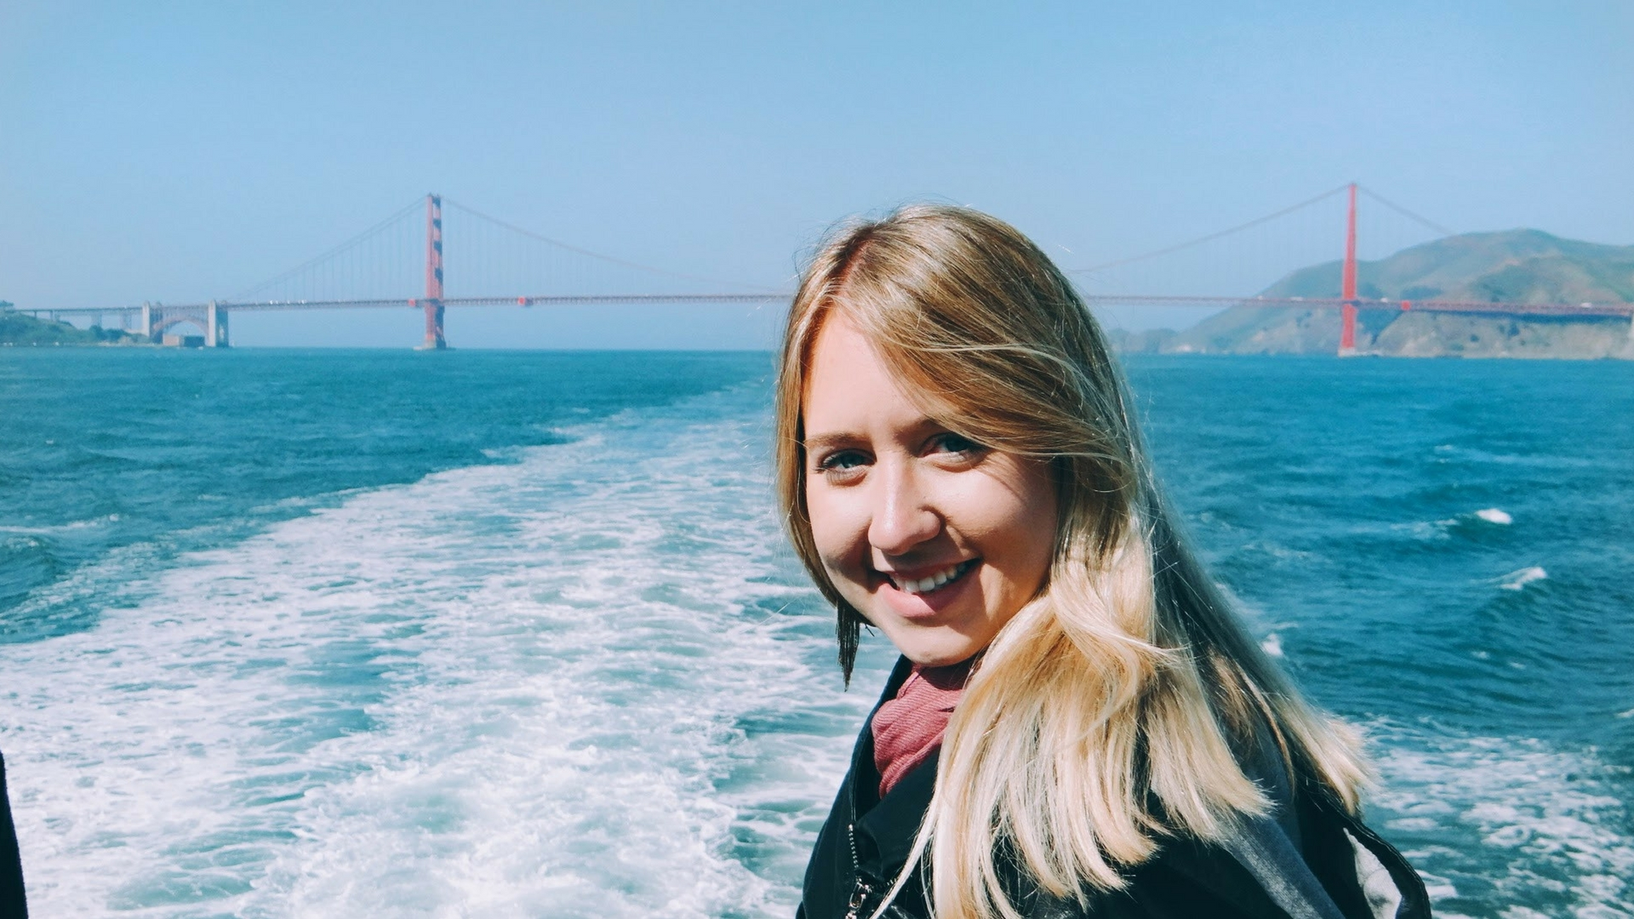
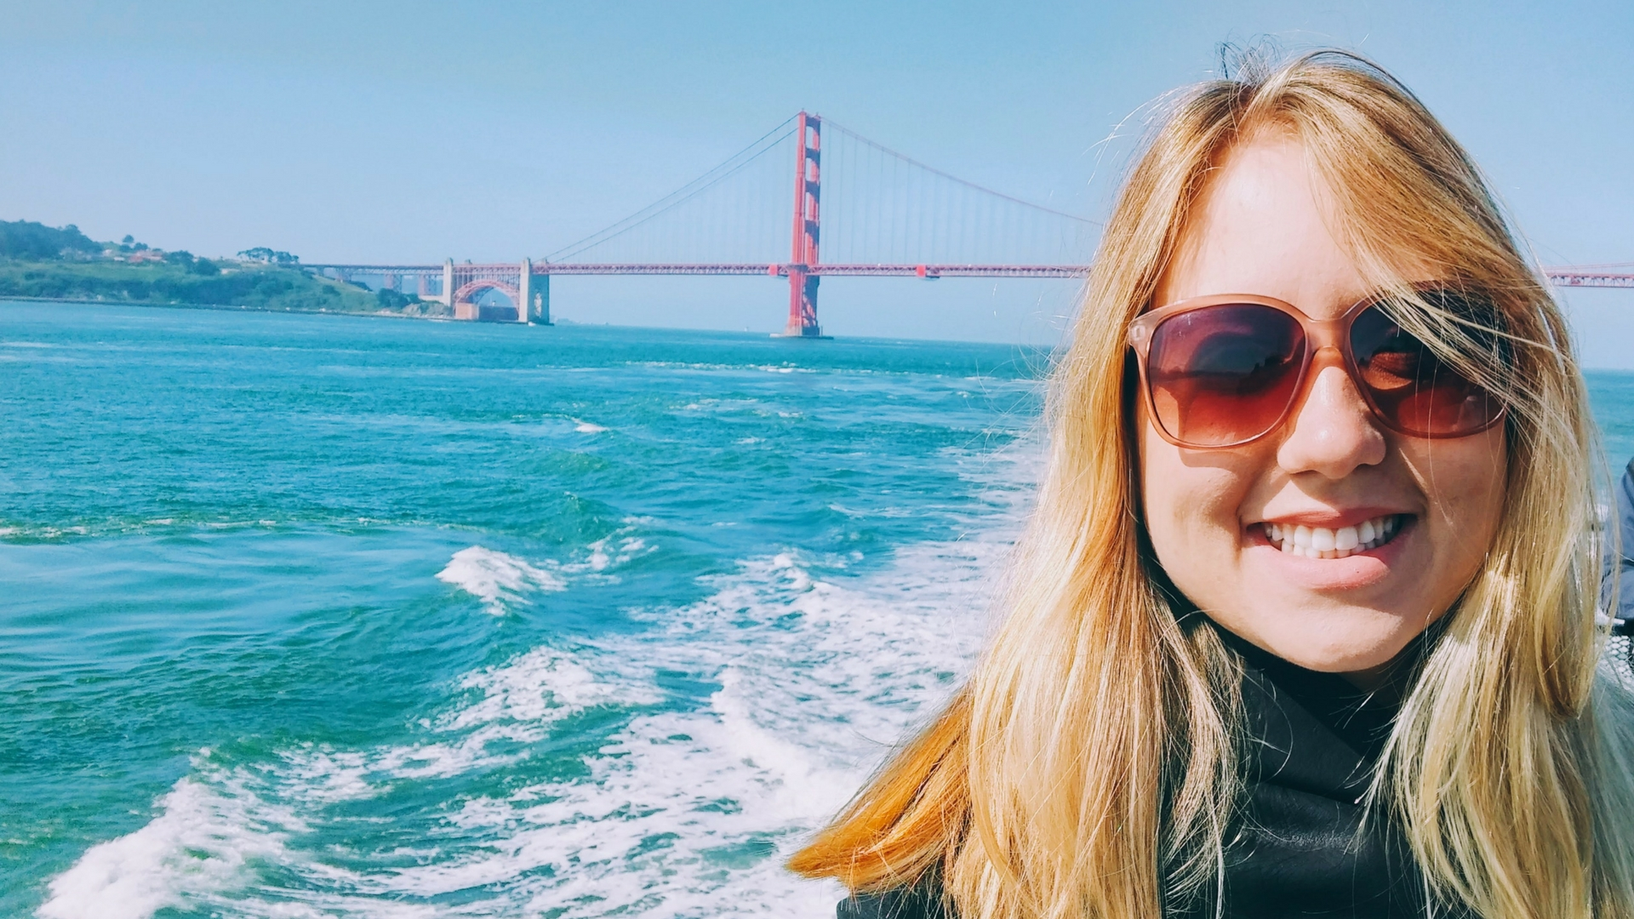
Postando são francisco

diff --git a/layouts/shortcodes/subscribe.html b/layouts/shortcodes/subscribe.html
@@ -1,9 +1,9 @@
   <div class="pure-g subscribe ">
     <div class="pure-u-1 pure-u-1 subscribe-inline text-center">
-      <form class="pure-form" action-xhr="//debacontudo.us15.list-manage.com/subscribe/post?u=b8837e3b70f25c1a6c0fa05e7&amp;id=c9ca835a56" method="post" id="mc-embedded-subscribe-form" name="mc-embedded-subscribe-form" target="_top" novalidate>
+      <form class="pure-form" action-xhr="//debacontudo.us15.list-manage.com/subscribe/post?u=b8837e3b70f25c1a6c0fa05e7&amp;id=c9ca835a56" method="post" id="mc-embedded-subscribe-form" name="mc-embedded-subscribe-form" target="_blank" novalidate>
 <fieldset>
-  <input type="email" placeholder="Informe seu e-mail e receba novidades" value="" name="email" class=" pure-input-2-3 required email" >
-  <button type="submit" class="submit"  name="subscribe" >OK</button>
+  <input type="email" placeholder="Informe seu e-mail e receba novidades" value="" name="EMAIL" class=" pure-input-2-3 required email" >
+  <button type="submit"  name="subscribe" >OK</button>
 </fieldset>
         <div submit-success>
           <template type="amp-mustache">
@@ -21,3 +21,6 @@
     <!-- .col-## -->
   </div>
   <!-- .container -->
+  <!-- Begin MailChimp Signup Form -->
+
+  <!-- Begin MailChimp Signup Form -->

diff --git a/layouts/shortcodes/quote-her.html b/layouts/shortcodes/quote-her.html
@@ -1,5 +1,3 @@
 <blockquote class="her our">
-  <p>
     {{ .Get 0 }}
-  </p>
 </blockquote>

diff --git a/layouts/shortcodes/quote-him.html b/layouts/shortcodes/quote-him.html
@@ -1,5 +1,3 @@
 <blockquote class="him our">
-  <p>
     {{ .Get 0 }}
-  </p>
 </blockquote>

diff --git a/content/viagem/o-que-fazer-sao-francisco.md b/content/viagem/o-que-fazer-sao-francisco.md
@@ -4,9 +4,9 @@ author:
 banner: /img/2017/05/pontos-interesse-sao-francisco-banner.jpg
 categories:
 - viagem
-date: 2017-05-30T18:00:47-02:00
-description: Acompanhe o nosso roteiro de road trip pela Highway 1. Vamos falar do Big Sur, o aquário de Monterey, Google, Facebook e muito mais.
-draft: true
+date: 2017-05-31T00:54:47-02:00
+description: Conheça 11 experiências incríveis da cidade de São Francisco que vão te fazer querer arrumar as malas e viajar hoje mesmo. Os principais pontos de interesse e atrações.
+draft: false
 images:
 - /img/2017/05/pontos-interesse-sao-francisco-banner.jpg
 lightbox: true
@@ -17,120 +17,182 @@ tags:
 - viagens
 - california
 - usa
-thumbnail: /img/2017/04/highway-1-thumb.jpg
-title: '10 experiências que fazem de São Francisco um lugar maravilhoso para se conhecer'
+- saofrancisco
+thumbnail: /img/2017/05/pontos-interesse-sao-francisco-thumb.jpg
+title: '11 experiências que fazem de São Francisco um lugar maravilhoso para se conhecer'
 totop: true
 ---
 
-São Francisco é uma cidade cheia de coisas super interessantes e divertidas para se fazer. Somos apaixonados pela cidade, e óbvio adoramos falar dela. Para facilitar que você saíba quais os principais pontos de interesse em São Francisco e passeios que você não pode perder, fizemos essa lista. Aqui você vai encontrar 10 experiências que fazem de São Francisco um lugar maravilhoso para se conhecer.
+**São Francisco** é uma cidade cheia de **coisas super interessantes** e divertidas para se fazer. Somos apaixonados pela cidade e adoramos falar dela. Para ajudar as pessoas que estão planejando uma viagem ou que pretendem um dia conhecer São Francisco, fizemos essa lista com os **principais pontos de interesse** e passeios que você não pode perder. Aqui você vai encontrar 11 experiências que fazem de São Francisco um lugar maravilhoso para se conhecer.
+
+Mas antes da lista, queremos te dar um conselho.
+
+### Compre o seu San Francisco CityPass
+
+O [**San Francisco CityPass**](http://www.citypass.com/san-francisco) te dá acesso a **várias atrações** e experiências que vamos indicar aqui, além de você poder usar o transporte público **Muni** de graça (saiba mais de transporte público em São Francisco [aqui](http://debacontudo.com.br/viagem/como-se-locomover-em-sao-francisco/)).
+
+Então, na nossa opinião, vale **MUITO** a pena comprar o CityPass.
+
+Agora sim! Vamos conhecer as 11 experiências.
 
 # 1 - Andar de bicicleta pela Golden Gate
 
-A Golden Gate é reconhecidamente o maior cartão postal de São Francisco. E nós temos duas formas muito legais de conhecer a Golden Gate. A primeira é de bicicleta! Você pega uma bike no Pier 39 e vai pedalando até lá. 
+A **Golden Gate** é reconhecidamente o maior cartão postal de São Francisco. E vamos te contar duas formas muito legais de conhecê-la. A primeira é de **bicicleta**! Você pega uma bike no **Pier 39** e vai pedalando até lá.
 
 {{< img-full src="/img/2017/05/vista-golden-gate.jpg" alt="Parada para tirar foto no caminho de bicicleta para a Golden Gate"  height="628" width="1200" title="Fotinha clássica né">}}
 
-O caminho é lindo, você passa pelo Fisherman's Wharf, Fort Mason, Palace of Fine Arts e Crisy Field. Nessa rota, você vai ver de perto os principais pontos fotográficos da Golden Gate. Quem estiver mais animado, pode atravessar a ponte. A gente só foi lá e voltou. 
+O caminho é lindo! Você passa pelo **Fisherman's Wharf**, **Fort Mason, Palace of Fine Arts e Crisy Field**. Nessa rota, você vai ver de perto os principais pontos fotográficos da Golden Gate. Quem estiver mais animado, pode atravessar a ponte. A gente só foi lá e voltou.
 
-{{quote-her "Vale ressaltar que você precisa ter um preparo físico em dia. O meu não estava lá essas coisas e eu quase não consegui andar até a ponte. :P "}}
+{{< quote-her "Vale ressaltar que você precisa ter um preparo físico em dia. O meu não estava lá essas coisas e eu quase não consegui andar até a ponte." >}}
 
-{{< img-full src="/img/2017/05/golden-gate-bike.jpg" alt="Na Golden Gate de Bicicleta"  height="628" width="1200"  title="Pensa um lugar que venta">}}
+Nós alugamos as bikes na **[Blazing Saddles](https://www.blazingsaddles.com/)**.
+
+{{< facebook-like >}}
 
 
 # 2 - Passear de barco pela Golden Gate
 
-A outra forma de curtir a Golden Gate é pelo mar. Você também pode adquirir no Pier 39 um passeio de barco pela baía. Nesse passeio,  você passa por baixo da ponte enquanto te contam um pouco da história. É imperdível! Não esqueça de ir bem agasalhado, pois venta demais! 
+A outra forma de curtir a **Golden Gate** é pelo mar. Você também pode adquirir no Pier 39 um passeio de barco pela baía. Nesse passeio, você **passa por baixo da ponte** enquanto te contam um pouco da história. É imperdível! Não esqueça de ir bem **agasalhado**, pois venta demais!
 
-{{< img-full src="/img/2017/05/golden-gate-de-lancha.jpg" alt="Passeio de barco na baia de são francisco, golden gate no fundo"  height="628" width="1200" >}}
+{{< img-full src="/img/2017/05/casal-de-bacon-tudo-sao-francisco.jpg" alt="Passeio de barco na baia de são francisco, golden gate no fundo"  height="628" width="1200" >}}
+
+Fizemos o passeio com a **Blue and Gold Fleet**, que já está incluso no **San Francisco CityPass**.
 
 # 3 - Sentir um pouco da história ao visitar Alcatraz
 
-Falando em história, São Francisco tem na sua baía a famosíssima prisão de Alcatraz, onde ficou preso Al Capone. É possível fazer um passeio dentro da cadeia, cheio de tensão e com um clima meio macabro. Se você estiver animado, opte pela versão noturna.
+Falando em história, São Francisco tem na sua baía a famosíssima **prisão de Alcatraz**, onde ficou preso **Al Capone**. É possível fazer um passeio dentro da cadeia, cheio de tensão e com um clima meio **macabro**. Se você estiver animado, opte pela versão noturna.
 
 {{< img-full src="/img/2017/05/placa-prisao-alcatraz.jpg" alt="Placa da Prisão de Alcatraz"  height="628" width="1200" >}}
 
-Ah, recomendamos ver antes de você ir o filme 'Alcatraz - Fuga Impossível (1979)', com Clint Eastwood, que relata bem como o era o clima na prisão. 
+Ah, recomendamos que você veja antes de ir o filme 'Alcatraz - Fuga Impossível (1979)', com Clint Eastwood, que relata bem como o era o clima na prisão.
+
+{{< img-full src="/img/2017/05/alcatraz-vista-do-rio.jpg" alt="Passando pela Prisão de Alcatraz"  height="628" width="1200" >}}
 
 # 4 - Visitar o California Academy of Science
 
-Quando estávamos planejando a nossa viagem, a gente se perguntou: visitar o California Academy of Science vale a pena? E, sim, vale muito a pena! O California Academy of Science é um museu focado na natureza, e suas exposições são bem fora do comum. Você vai ver de perto:
+Quando estávamos planejando a nossa viagem, a gente se perguntou: vale a pena visitar o **California Academy of Science**? E, sim, vale muito a pena! O California Academy of Science é um museu focado na natureza, e suas exposições são bem fora do comum. 
+
+{{< img-full src="/img/2017/05/teto-academy-of-science.jpg" alt="Teto da California Academy of Science"  height="628" width="1200" >}}
+
+Você vai ver de perto:
 
 - Um crocodilo branco muito doido
 - Uma estufa em um globo de vidro gigantesco onde você vai conhecer as florestas tropicais (com direito a aves e borboletas)
 - Um tiranoussauro rex (só o esqueleto tá)
 - Um aquário lindo e bem completo
 
+{{< img-full src="/img/2017/05/crocodilo-branco.jpg" alt="Crocodilo Branco"  height="628" width="1200" >}}
+
 Além disso, tem mais uma série de coisas legais. Mas não vamos contar tudo para não perder a graça. Não esqueça de consultar no site deles as novas exposições.
 
+Essa visita também está inclusa no **CityPass**.
+
 # 5 - Ir de Cable Car da Union Square até a Ghirardelli Square
-Os cables cars fazem parte da identidade e história de São Francisco. Para quem não sabe, eles são aqueles bondinhos que sobem e descem as ladeiras da cidade. O seu funcionamento é bem "simples". Eles ficam em um trilho que possui um cabo por dentro. O bonde então se agarra nesse cabo para se locomover e solta o cabo quando quer parar.
+Os **cables cars** fazem parte da identidade e história de São Francisco. Para quem não sabe, eles são aqueles **bondinhos que sobem e descem as ladeiras da cidade**. O seu funcionamento é bem "simples". Eles ficam em um trilho que possui um cabo por dentro. O bonde então se agarra nesse cabo para se locomover e solta o cabo quando quer parar.
 
-A nossa sugestão é você pegar o Cable Car na Union Square no final da tarde e ir até a Ghirardelli Square. A Ghirardelli é uma fábrica de chocolates de São Francisco. A praça foi adquirida nos anos 60 para ser o quartel general da empresa. Hoje, é uma região histórica, linda, toda iluminada e enfeitada. 
+{{< img-full src="/img/2017/05/andando-cable-car-san-francisco.jpg" alt="Andando de Cable Car" title="Sobe ai, bora ali"  height="628" width="1200" >}}
 
-Você vai encontrar por lá também uma loja gigante da Ghirardelli, onde você pode comprar chocolates (inclusive uns para dar de presente) e tomar um chocolate quente delicioso equanto aprecisa a vista. Além da Ghirardelli, também há outros restaurantes no local.
+A nossa sugestão é você pegar o cable car na **Union Square** no final da tarde e ir até a **Ghirardelli Square**. A Ghirardelli é uma **fábrica de chocolates** de São Francisco. A praça foi adquirida nos anos 60 para ser o quartel general da empresa. Hoje é uma região histórica, linda, toda iluminada e enfeitada.
 
-# 4 - Explorar as lojas e restaurantes do Pier 39
+{{< img-full src="/img/2017/05/girardelli-square.jpg" alt="Ghirardelli Square"  height="628" width="1200" >}}
 
-O Pier 39 é um centro túristico de São Francisco, onde todo turista vai para bater perna, ver as lojinhas, comer em restaurantes legais e admirar a vista.
+Você vai encontrar por lá também uma **loja gigante da Ghirardelli**, onde você pode comprar chocolates (inclusive uns para dar de presente) e tomar um chocolate quente delicioso enquanto aprecisa a vista. Além da Ghirardelli, também há outros restaurantes no local.
 
-{{< img-full src="/img/2017/05/lojas-pier-39.jpg" alt="Lojas Pier 39"  height="628" width="1200" >}}
+# 6 - Explorar as lojas e restaurantes do Pier 39
 
-O Pier 39 fica bem próximo de Alcatraz e da Golden Gate, então normalmente é de lá que saem os passeios para esses lugares. 
+O **Pier 39** é um centro turístico de São Francisco, onde todo turista vai para bater perna, **ver as lojinhas**, **comer em restaurantes legais** e admirar a vista.
 
-Além disso, o Pier 39 tem alguns moradores fixos que fazem sucesso, como os leões marinhos, que passam os dias se esticando ao lado do Pier, um ótimo visual para tirar lindas fotos.
+{{< img-full src="/img/2017/05/larissa-no-pier-39.jpg" alt="Lojas Pier 39"  height="628" width="1200" >}}
 
-{{< img-full src="/img/2017/05/leao-marinho-pier39.jpg" alt="Leões Marinhos no Pier 39"  height="628" width="1200" >}}
+O Pier 39 fica bem próximo de **Alcatraz** e da **Golden Gate**, então normalmente é de lá que saem os **passeios** para esses lugares.
 
-O Pier 39 possui restaurantes bem famosos, como o restaurante de frutos do mar Bulba Gump (que faz referência ao filme do Forrest Gump). 
+Além disso, o Pier 39 tem alguns moradores fixos que fazem sucesso, como os **leões marinhos**, que passam os dias se esticando ao lado do Pier, um ótimo visual para tirar lindas fotos.
 
-{{< img-full src="/img/2017/05/bubba-gump-banco-forest.jpg" alt="Banco do Forrest Gump no Bubba GUmp"  height="628" width="1200" >}}
+{{< img-full src="/img/2017/05/leao-marinho-pier39.jpg" alt="Leões Marinhos no Pier 39"  height="628" width="1200" title="Essa cara ai é pq é bonitinho mas fede">}}
 
-Por ali você também vai encontrar vários lugares que servem **Clam chowder**, que é um creme de mariscos típico da região. Por favor, experimente!
+O Pier 39 possui restaurantes bem famosos, como o restaurante de frutos do mar **Bulba Gump** (que faz referência ao filme do Forrest Gump).
 
-# 6 - Apreciar comidas diferentes no Ferry Building Marketplace
+{{< img-full src="/img/2017/05/bubba-gump-banco-forrest.jpg" alt="Banco do Forrest Gump no Bubba Gump"  height="628" width="1200" >}}
 
-Se você como a gente adora comer e principalmente coisas diferenciadas então você tem que conhecer o Ferry Building Marketplace
+{{< img-double src="/img/2017/05/camarao-bubba-gump.jpg" src2="/img/2017/05/drink-bubba-gump.jpg" alt= "Comendo no Bubba Gump"  height="1200" width="800" >}}.
+
+Por ali você também vai encontrar vários lugares que servem **Clam chowder**, que é um creme de mariscos típico da região. Não deixe de experimentá-lo!
+
+Outra atração é o Aquarium of the Bay (que é do mesmo grupo de Monterrey) que também está incluso no **CityPass**.
+
+{{<subscribe>}}
+
+# 7 - Apreciar comidas diferentes no Ferry Building Marketplace
+
+Se você adora comer, principalmente pratos diferenciados e fora do comum, então você precisa conhecer o **Ferry Building Marketplace**.
 
 {{< img-full src="/img/2017/05/ferry-building-marketplace.jpg" alt="Ferry Building Marketplace"  height="628" width="1200" >}}.
 
-O Ferry Building Marketplace é de onde saem as balsas de São Francisco.  Lá também existe um mercado de comida que é simplesmente maravilhoso. Você vai encontrar todo tipo de comida: pães, queijos, vinhos, embutidos e tudo mais que seu estômago possa imaginar. Várias lojinhas oferecem degustações, então aproveite!
+O Ferry Building Marketplace é de onde saem as balsas de **São Francisco**.  Lá também existe um **mercado de comida** que é simplesmente maravilhoso. Você vai encontrar todo tipo de comida: pães, queijos, vinhos, embutidos e tudo mais que seu estômago possa imaginar. Várias lojinhas oferecem **degustações**, então aproveite!
 
-Nossa dica é comer algo no **[Delica](https://www.ferrybuildingmarketplace.com/merchants/delica/)**  uma delicatessen Japonesa com influência da cozinha internacional. Depois, tome um café maravilhoso no **[Blue Bottle Coffee](https://www.ferrybuildingmarketplace.com/merchants/blue-bottle-coffee/)**.
+{{<quote-him "Eu tive que sair de lá arrastado pela Larissa">}}
 
-# 7 - Fazer um piquenique na Alamo Square e admirar as Painted Ladies
+{{< img-full src="/img/2017/05/ferry-food.jpg" alt="Lojas Ferry Building Marketplace"  height="628" width="1200" >}}.
 
-Outro cartão postal de São Francisco são as Painted Ladies da Alamo Square. Painted Ladies são casas de estilo vitoriano bem similares, pintadas com cores brilhantes, que podem ser observadas em vários locais do mundo. 
+Nossa dica é comer algo no **[Delica](https://www.ferrybuildingmarketplace.com/merchants/delica/)**, uma delicatessen japonesa com influência da cozinha internacional. Depois, se delicie com um café no **[Blue Bottle Coffee](https://www.ferrybuildingmarketplace.com/merchants/blue-bottle-coffee/)**.
 
-Porém as mais conhecidas são as de São Francisco, localizadas na Steiner Street, ao Lado da Alamo Square (inclusive elas foram usadas na série Full House).
+# 8 - Fazer um piquenique na Alamo Square e admirar as Painted Ladies
+
+Outro cartão postal de São Francisco são as **Painted Ladies** da Alamo Square. Painted Ladies são casas de estilo vitoriano bem similares, **pintadas com cores brilhantes**, que podem ser observadas em vários locais do mundo.
+
+{{< img-full src="/img/2017/05/placa-alamo-square.jpg" alt="Placa da Alamo Square"  height="628" width="1200" >}}.
+
+Porém as mais conhecidas são as de São Francisco, localizadas na **Steiner Street**, ao lado da **Alamo Square** (inclusive elas foram usadas na série **Full House**).
 
 {{< img-full src="/img/2017/05/painted-ladies-alamo-square.jpg" alt="Painted Ladies na Alamo Square"  height="628" width="1200" >}}.
 
-A Alamo Square é uma pracinha toda gramada e bem legal. Lá ficam dezenas de pessoas sentadas, fazendo um piquenique, ou só de papo mesmo enquanto ficam olhando as Painted Ladies. É um ótimo momento para tirar um tempinho para recarregar as baterias.
+A **Alamo Square** é uma pracinha toda gramada e bem legal. Lá ficam dezenas de pessoas sentadas, fazendo um piquenique, ou só de papo mesmo enquanto ficam olhando as **Painted Ladies**. É um ótimo momento para tirar um tempinho e recarregar as baterias.
 
-# 8 - Conhecer experiências incríveis no Exploratorium
+# 9 - Conhecer experiências incríveis no Exploratorium
 
-O Exploratorium é um museu super divertido de artes e ciências que fica no Pier 15. É um passeio descontraído, que atrai tanto  crianças quanto adultos para suas experiências malucas e interativas. Você vai ver de perto vários conceitos de física elétrica, mecânica, ótica, química e biologia de um jeito que nunca viu antes. 
+O **Exploratorium** é um museu super divertido de artes e ciências que fica no Pier 15. O passeio (que também está incluso no **City Pass**) é bem descontraído e atrai **tanto crianças quanto adultos** para suas experiências malucas e interativas. Você vai ver de perto vários conceitos de física elétrica, mecânica, ótica, química e biologia de um jeito que nunca viu antes.
 
-Vá com tempo para curtir cada uma das atrações. Uma das experiências que o museu oferece é uma simmulação do terremoto ocorrido em São Francisco em 1906, que deixou a cidade bem destruída. 
+{{< img-full src="/img/2017/05/espelhos-exploratorium.jpg" alt="Espelhos no Exploratorium"  height="628" width="1200" >}}.
 
-# 9 - Descer a Lombard Street, a rua em zigzag 
+Vá com tempo para curtir cada uma das atrações.
 
-A Lombard Street é uma rua em zigzag de São Franscisco. Como era muito íngreme, resolveram fazê-la assim para evitar acidentes. Não sabemos se resolveu muito, já que andamos por lá e ficamos meio tontos dirigindo por ela.  
+# 10 - Descer a Lombard Street, a rua em zigue-zague
 
-Além da Lombard Street ser super diferente, bonita e legal de se conhecer, a vista lá de cima é bem bonita.
+A **Lombard Street** é uma das vias de trânsito mais famosas de São Franscisco, já que é toda em zigue-zague. Dizem   que ela foi construída assim para evitar acidentes, já que era uma rua muito íngreme. Não sabemos se resolveu muito, já que passamos por lá e ficamos meio tontos dirigindo por ela.  
 
-{{< img-full src="/img/2017/05/lombard-street-vista-do-alto.jpg" alt= Lombard Street vista do alto"  height="628" width="1200" >}}.
+{{< img-info src="/img/2017/05/lombard-street.jpg" alt="Debaixo da Lombard Street"  height="1200" width="800"  >}}
 
-Se possível, desça ela de carro. Se você não estiver de carro (e a gente não recomenda que esteja mesmo), passe lá de Uber rsrs. Mas não deixe de conhecer a Lombard Street.
+Além da **Lombard Street** ser super diferente, bonita e legal de se conhecer, a **vista lá de cima é linda.**
 
-# 10 -Subir as escadarias do Telegraph Hills até o Coit Tower
+Se possível, desça ela de carro. Se você não estiver de carro (e a gente não recomenda que esteja mesmo), passe lá de Uber rsrs. Mas não deixe de conhecer a **Lombard Street.**
 
-O Coit Tower é uma torre que fica no topo de São Francisco e que oferece uma das vistas mais lindas da cidade. Existem várias formas de chegar até a Coit Tower, mas nenhuma tão legal quanto subir a escadaria do Telegraph Hills.
+{{< img-full src="/img/2017/05/lombard-street-vista-do-alto.jpg" alt= "Lombard Street vista do alto"  height="628" width="1200" title="Já dá pra ver o Coit Tower" >}}.
 
-A gente entende que subir escada não é para qualquer um. Mas vamos tentar te convencer. São somente 400 degraus (tá, talvez isso não ajude muito o argumento), onde você passa por lindos jardins e casas charmosas dos moradores da região (agora sim hein). Além disso, durante a subida vocâ vai ouvir os famosos papagaios selvagens de São Francisco, que eram pássaros de estimação que acabaram se reproduzindo e se espalhando por certas regiões da cidade. A subida é bem pitoresca e é só ir com calma que dá tudo certo.
+# 11 -Subir as escadarias do Telegraph Hills até o Coit Tower
 
-{{<quote-him "Dessa vez a Larissa nem reclamou - Felipe">}}
+O **Coit Tower** é uma torre que fica no topo de São Francisco e que oferece uma das vistas mais lindas da cidade. Existem várias formas de chegar até a Coit Tower, mas nenhuma tão legal quanto subir a escadaria do **Telegraph Hills**.
 
-Quando chegar no Coit Tower, provavelmente você vai precisar enfrentar uma fila para conhecer o topo da torre. Enquanto isso, não deixe de admirar as pinturas nas paredes que contam a história da região. Depois, é só curtir a lindíssima vista de São Francisco. 
+{{< img-full src="/img/2017/05/vista-coit-tower.jpg" alt= "Vista do Coit Tower"  height="628" width="1200" title="Vista do topo do Coit Tower" >}}.
 
+A gente entende que subir escada não é para qualquer um. Mas vamos tentar te convencer. São somente **400 degrau**s (tá, talvez isso não ajude muito), onde você passa por **lindos jardins e casas charmosas** dos moradores da região (agora sim hein). Além disso, durante a subida vocâ vai ouvir os **famosos papagaios selvagens** de **São Francisco**, que eram pássaros de estimação que acabaram se reproduzindo e se espalhando por certas regiões da cidade. A subida é bem **pitoresca** e é só ir com calma que dá tudo certo.
+
+{{<quote-him "Dessa vez a Larissa nem reclamou">}}
+
+Quando chegar no **Coit Tower**, provavelmente você vai precisar enfrentar uma fila para conhecer o topo da torre. Enquanto isso, não deixe de admirar as **pinturas nas paredes** que contam a história da região. Depois, é só curtir a **lindíssima vista da cidade de São Francisco.**
+
+{{< img-full src="/img/2017/05/pose-coit-tower.jpg" alt= "Fazendo pose no coite tower"  height="628" width="1200" title="Pose para a foto do final do post" >}}.
+
+------
+
+	
+
+Resumo da ópera: [we left our heart in San Francisco](https://www.youtube.com/watch?v=ryF9p-nqsWw) <3
+
+
+
+Eaí, curtiu? Se você conhece alguma atração imperdível de **São Francisco** que não abordamos aqui, conta pra gente! Não esquece de nos acompanhar pelo [**Instagram**](https://www.instagram.com/casaldebacontudo/) e pelo [**Facebook**](https://www.facebook.com/debacontudo/).
+
+Até a próxima!
+
+{{<subscribe>}}
 
